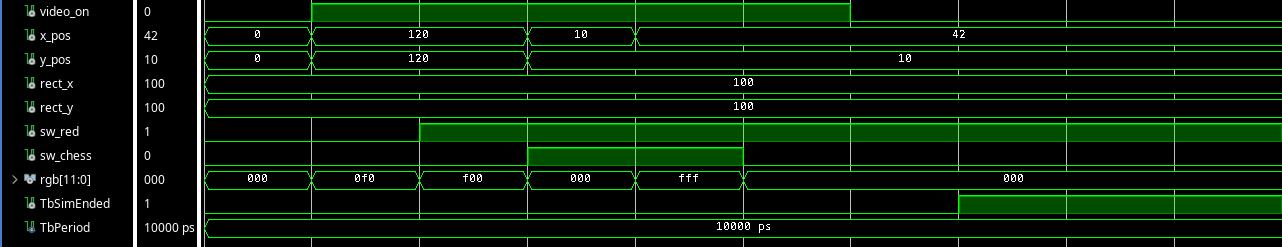
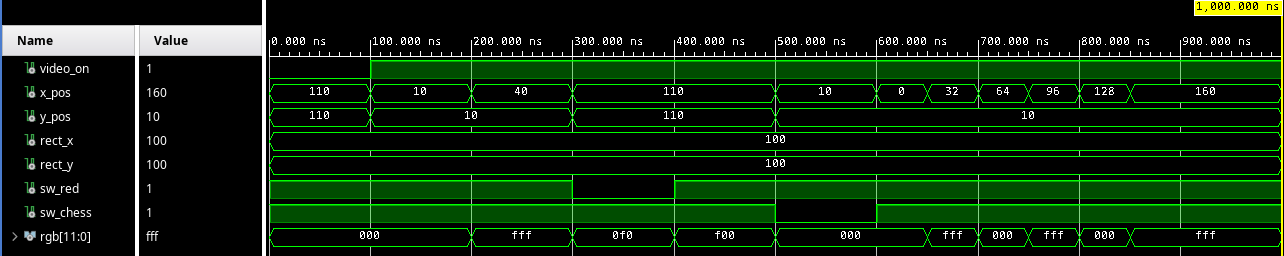
Wrong directory

diff --git a/README.md b/README.md
@@ -4,32 +4,216 @@ VGA Graphics Controller (Nexys A7-50T)
 
 This VHDL project implements a VGA controller generating a 640x480 @ 60Hz video signal. It demonstrates VGA synchronization, combinational image generation (static shapes, patterns), and sequential logic for object animation with boundary collision detection.
 
-## Features & Controls
+## Controls
 
 The system displays a colored square on a black background by default. The behavior can be controlled using the onboard push buttons:
 
-**INPUT** 
+* **Button up (Press/Hold):**
+* **Button down (Press/Hold):**
+* **Button right (Press/Hold):**
+* **Button left (Press/Hold):**
+* **Button center (Press):**
+* **Switches (Turn on/off):**
 
-* **BTNU (Press/Hold):**  Moves the square up the Y-axis. Movement stops when the button is released or the screen edge is reached.
-* **BTND (Press/Hold):** Moves the square down the Y-axis. Movement stops when the button is released or the screen edge is reached.
-* **BTNR (Press/Hold):** Moves the square to the right along the X-axis. Movement stops when the button is released or the screen edge is reached.
-* **BTNL (Press/Hold):** Moves the square to the left along the X-axis. Movement stops when the button is released or the screen edge is reached.
-* **BTNC (Press):** Instantly resets the square's position to the center of the screen. 
-* **SW[15:0]: (Switch)** It provides user input from the physical switches on the board. The left switches are used to change
-the background pattern. The right switches are used to change the color of the square.
+# Schematic
+![schematic](.dotfiles/diagram.png)
+---
+![Schematic](.dotfiles/schematic2.0.png)
 
+# Inputs and Outputs
 
+The inputs and outputs of the design are as follows:
 
-**OUTPUT** 
-
+* **BTND:** Moves the square down the Y-axis. Movement stops when the button is released or the screen edge is reached.
+* **BTNR:** Moves the square to the right along the X-axis. Movement stops when the button is released or the screen edge is reached.
+* **BTNL:** Moves the square to the left along the X-axis. Movement stops when the button is released or the screen edge is reached.
+* **BTNC:** Instantly resets the square's position to the center of the screen. 
+* **SW[15:0]:** It provides user input from the physical switches on the board. The left switches are used to change the background pattern. The right switches are used to change the color of the square.
+* **clk:** The main system clock that drives all synchronous logic in the design.
 * **vga_xsync:** It tells the monitor to go back to the left edge of the screen. It is also used to move to the next row of pixels once per line.
 * **vga_ysync:** It tells the monitor to go back to the top of the screen. It is also used to update the animation once per frame.
 * **vga_r, vga_g, vga_g:** The physical pins sending analog color data to the VGA port.
 
-Detailed descriptions of the modules used in the design can be found in the [VGA.md](.dotfiles/VGA.md) file.
+# Modules
+Description of each module used in the design.
 
-# Schematic
-![Schematic](.dotfiles/schematic2.0.png)
+## Top module 
+
+This module connects all the previous modules together and maps the internal signals to the physical pins on the FPGA board. It serves as the final integration point where all components work together to produce the VGA output.
+
+### Ports
+
+| Port Name | Direction | Size/Type | Description |
+| :--- | :--- | :--- | :--- |
+| `clk` | In | `std_logic` | Main system clock for synchronous logic |
+| `btn[c/u/d/l/r]` | In | `std_logic` | The physical push-buttons on the board |
+| `sw` | In | `std_logic_vector(15:0)` | The physical switches on the board |
+| `vga_xsync` | Out | `std_logic` | The physical HSYNC pin wired to the VGA port |
+| `vga_ysync` | Out | `std_logic` | The physical VSYNC pin wired to the VGA port |
+| `vga_r`, `vga_g`, `vga_b` | Out | `std_logic_vector(3:0)` | The physical pins sending analog color data to the VGA port. |
+
+### Signals
+
+| Signal Name | Size/Type | Description |
+| :--- | :--- |  :--- |
+| `sign_en25` | `std_logic` | The 25 MHz clock enable pulse generated by `clk_en` |
+| `sig_vsync` | `std_logic` | The VSYNC pulse from `vga_sync` used to synchronize the FSM |
+| `sig_video_on` | `std_logic` | The video on/off flag from `vga_sync` used to control the output color in `img_gen` |
+| `sig_x_pos` | `std_logic_vector(9:0)` | The current horizontal pixel coordinate from `vga_sync` used by `img_gen` to determine the color of the current pixel |
+| `sig_y_pos` | `std_logic_vector(8:0)` | The current vertical pixel coordinate from `vga_sync` used by `img_gen` to determine the color of the current pixel |
+| `sig_rect_x` | `std_logic_vector(9:0)` | The current X-coordinate of the moving rectangle calculated by the FSM |
+| `sig_rect_y` | `std_logic_vector(8:0)` | The current Y-coordinate of the moving rectangle calculated by the FSM |
+| `sig_btn[u/d/l/r]` | `std_logic` | The debounced signals from the push buttons used by the FSM to control the movement of the rectangle |
+| `sig_rgb_full` | `std_logic_vector(11:0)` | The final 12-bit RGB color generated by `img_gen` before being sent to the VGA output |
+
+### Simulation
+
+![image](./.dotfiles/vga_top.png)
+
+## fsm - Finite State Machine module
+
+The FSM acts as the "logic brain" of the project, responsible for calculating the rectangle's position and handling user input. To prevent the rectangle from moving at the internal 100 MHz clock speed (which would be too fast to see), the FSM is synchronized with the vsync signal. This ensures the position updates only once per frame, resulting in a smooth 60 Hz movement.
+
+### Ports
+
+| Port Name | Direction | Size/Type | Description |
+| :--- | :--- | :--- | :--- |
+| `clk` | In | `std_logic` | Main system clock for synchronous logic |
+| `reset` | In | `std_logic` | Returns the animated object to its starting position |
+| `vsync` | In | `std_logic` | The VSYNC pulse from `vga_sync`. We use this as a slow 60Hz timer so the object moves exactly 1 step per frame, creating smooth animation |
+| `btn_down, _left, _right, _up` | In | `std_logic` | Clean button signals used to steer the object or change the animation state |
+| `rect_x` | Out | `std_logic_vector(9:0)` | The calculated X-coordinate where the object should be right now |
+| `rect_y` | Out | `std_logic_vector(8:0)` | The calculated Y-coordinate where the object should be right now |
+
+### Signals
+
+| Signal Name | Size/Type | Description |
+| :--- | :--- | :--- |
+| `current_state` | `std_logic_vector(1:0)` | The current state of the FSM, used to determine the movement direction and behavior of the rectangle |
+| `x_reg` | `std_logic_vector(9:0)` | The internal register holding the current X-coordinate of the rectangle |
+| `y_reg` | `std_logic_vector(8:0)` | The internal register holding the current Y-coordinate of the rectangle |
+
+### Enumeration Types
+
+| Type name| Description |
+| :--- | :--- |
+| `state_type` | An enumerated type defining the possible states of the FSM, such as `IDLE`, `MOVE_RIGHT`, `MOVE_DOWN`, `MOVE_LEFT`, and `MOVE_UP`. Each state corresponds to a specific movement direction or behavior of the rectangle. |
+
+### Simulation
+
+![image](./.dotfiles/fsm.png)
+
+## vga_sync - VGA Synchronization module
+Acts as the timing core of the video controller, ensuring that pixels are sent to the monitor in the correct order and at the precise rate required by the VGA standard. It handles the transition from a 1D stream of pixel data into a 2D 640×480 frame.
+
+The module utilizes a nested counter system to track the "scanning" position. The horizontal counter (x_cnt) counts from 0 up to 799, and the vertical counter (y_cnt) increments every time a full row is completed, counting from 0 up to 524. While the total area is 800×525 pixels, only the first 640×480 region is visible. The remaining "non-visible" areas—known as the front porch, sync pulse, and back porch—are used to reset the monitor's timing.
+
+### Ports
+
+| Port Name | Direction | Size/Type | Description |
+| :--- | :--- | :--- | :--- |
+| `clk` | In | `std_logic` | Main system clock |
+| `rst` | In | `std_logic` | Resets the  horizontal and vertical counters to zero |
+| `en_25` | In | `std_logic` | The 25 MHz pulse from `clk_en` that drives the pixel counting |
+| `x_sync` | Out | `std_logic` | Horizontal sync pulse - HSYNC. Tells the monitor to move the brush to the next line |
+| `y_sync` | Out | `std_logic` | Vertical sync pulse - VSYNC. Tells the monitor to start a completely new frame at the top left |
+| `video_on` | Out | `std_logic` | A safety flag. It is '1' only when the monitor is in the active display area. If it is '0', we must output black to prevent monitor errors |
+| `x_pos` | Out | `std_logic_vector(9:0)` | The current horizontal coordinate of the monitor's brush (0 to 639) |
+| `y_pos` | Out | `std_logic_vector(8:0)` | The current vertical coordinate of the monitor's brush (0 to 479) |
+
+### Signals
+
+| Signal Name | Size/Type | Description |
+| :--- | :--- | :--- |
+| `x_cnt` | `std_logic_vector(9:0)` | The horizontal pixel counter that increments with each pixel clock. It resets after reaching 799, which includes the visible area (0-639) and the horizontal blanking intervals (640-799). |
+| `y_cnt` | `std_logic_vector(8:0)` | The vertical pixel counter that increments each time `x_cnt` resets. It counts from 0 to 524, covering the visible area (0-479) and the vertical blanking intervals (480-524). |
+
+### Simulation
+
+![image](./.dotfiles/vga_sync.png)
+---
+![image](./.dotfiles/vga_sync_1.png)
+
+## img_gen - Image Generation module
+This module is a combinational logic block. It determines the final 12-bit RGB color for every pixel based on the current coordinates provided by the synchronization module.
+
+### Ports
+
+| Port Name | Direction | Size/Type | Description |
+| :--- | :--- | :--- | :--- |
+| `video_on` | In | `std_logic` | The safety flag. If this is '0', the module overrides everything and outputs black screen |
+| `x_pos`, `y_pos` | In | `std_logic_vector` | The exact pixel the monitor is asking us to color at the moment |
+| `rect_x`, `rect_y` | In | `std_logic_vector` | The target coordinates of our moving object, provided by the FSM brain |
+| `sw_red`, `sw_chess` | In | `std_logic_vector` | The user input from the switches that can change the background pattern and the color of the object |
+| `rgb` | Out | `std_logic_vector(11:0)` | The final 12-bit color code - 4 bits Red, 4 bits Green, 4 bits Blue that are sent to the screen |
+
+### Simulation
+
+![image](./.dotfiles/img_gen.png)
+---
+![image](./.dotfiles/img_gen_1.png)
+
+## clk_en - Clock Enable module
+To drive other logic in the design that requires a slower operation, it is better to generate a clock enable signal (see figure bellow) instead of creating a new clock domain using clock dividers. 
+Creating additional clock domains may cause timing issues or clock domain crossing (CDC) problems such as metastability, data loss, and data incoherency.
+
+![image](https://github.com/tomas-fryza/vhdl-examples/blob/master/lab4-counter/images/waveform_clock-enable.png)
+
+Source: https://github.com/tomas-fryza/vhdl-examples/tree/master/lab4-counter
+
+### Ports
+
+| Port Name | Direction | Size/Type | Description |
+| :--- | :--- | :--- | :--- |
+| `clk` | In | `std_logic` | The very fast 100 MHz main system clock from the board |
+| `rst` | In | `std_logic` | Reset signal to restart the internal counter |
+| `ce` | Out | `std_logic` | Clock enable pulse. It ticks exactly at 25 MHz |
+
+### Signals
+| Signal Name | Size/Type | Description |
+| :--- | :--- | :--- |
+| `sig_cnt` | `std_logic_vector(1:0)` | A 2-bit counter that increments with each clock cycle. It resets to zero when it reaches 3, creating a pulse every 4 cycles (100 MHz / 4 = 25 MHz). |
+
+### Simulation
+![image](./clk_en.png)
+
+## debounce - Debounce module
+A bouncy button, also known as a switch bounce, refers to the phenomenon where the electrical contacts in a mechanical switch make multiple rapid transitions between open and closed states when pressed or released. These transitions typically occur over a period of 1–25 ms.
+
+As a result, a single press may be interpreted by digital logic as multiple presses, which can cause incorrect behavior in digital circuits. Examples of real push buttons are shown below. (Note that the active level of the buttons in these examples is low, while the buttons on the Nexys A7 board may use a different active level.)
+
+![image](https://github.com/tomas-fryza/vhdl-examples/blob/master/lab6-debounce/images/bouncey4.png)
+---
+![image](https://github.com/tomas-fryza/vhdl-examples/blob/master/lab6-debounce/images/bouncey6.png)
+
+Source: https://github.com/tomas-fryza/vhdl-examples/tree/master/lab6-debounce
+
+### Ports
+
+| Port Name | Direction | Size/Type | Description |
+| :--- | :--- | :--- | :--- |
+| `btn_in` | In | `std_logic` | The raw electrical signal coming directly from the physical push button |
+| `rst` | In | `std_logic` | Asynchronous reset to clear the internal state of the filter |
+| `clk` | In | `std_logic` | The main system clock used to time the filtering process |
+| `btn_state` | Out | `std_logic` | The stable signal representing a true button press. Safe to use without registering fake multiple clicks |
+| `btn_press` | Out | `std_logic` | A one-clock-cycle pulse that goes high only on the transition from unpressed to pressed. Useful for triggering events on button presses without needing to check the state continuously. |
+| `btn_release` | Out | `std_logic` | A one-clock-cycle pulse that goes high only on the transition from pressed to unpressed. Useful for triggering events on button releases. |
+
+### Signals
+
+| Signal Name | Size/Type | Description |
+| :--- | :--- | :--- |
+| `ce_sample` | `std_logic` | A slower clock enable signal that determines how often the button state is sampled. This is typically set to a frequency that allows for effective debouncing (e.g., 1 kHz). |
+| `sync0`, `sync1` | `std_logic` | Two-stage synchronizer flip-flops used to safely bring the asynchronous button signal into the clock domain of the system, reducing the risk of metastability. |
+| `shift_reg` | `std_logic_vector(15:0)` | A shift register that holds the history of sampled button states. By analyzing the contents of this register, the module can determine if the button has been consistently pressed or released for a sufficient duration to be considered stable. |
+| `debounced` | `std_logic` | The output signal that indicates the debounced state of the button. It is set to '1' when the button is considered pressed and '0' when it is considered released. |
+| `delayed` | `std_logic` | A delayed version of the debounced signal used to detect transitions. By comparing the current debounced state with the previous state, the module can generate the `btn_press` and `btn_release` pulses. |
+
+### Simulation
+
+![image](./debounce.png)
+
+# Poster
 
 # Video
 
